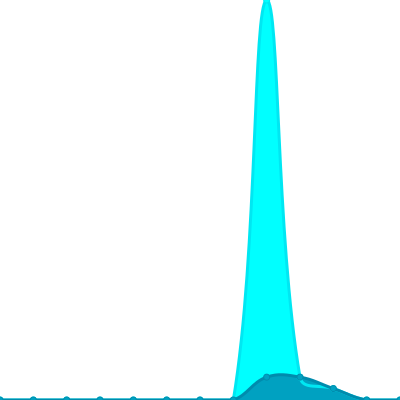
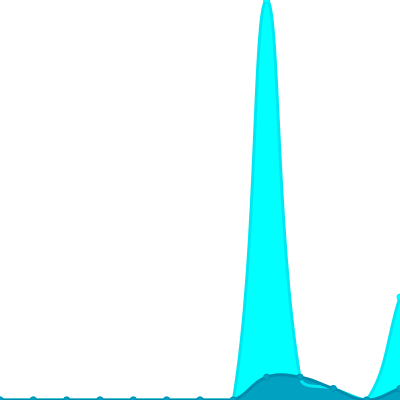
Update views

Changed region(s): [[0.87, 0.72, 1.0, 1.0]]

diff --git a/readme/507583424/year.md b/readme/507583424/year.md
@@ -23,10 +23,10 @@
 			<code>2022/10/1</code>
 		</td>
 		<td>
-			<code>0</code>
+			<code>1</code>
 		</td>
 		<td>
-			<code>0</code>
+			<code>9</code>
 		</td>
 	</tr>
 	<tr>
@@ -164,7 +164,7 @@
 </table>
 
 </details>
-<small><i>Last updated on 2022/10/14 12:33 PM UTC</i></small>
+<small><i>Last updated on 2022/10/14 6:21 PM UTC</i></small>
 
 ## ✂Copy and 📋 Paste
 ### SVG Badge

diff --git a/README.md b/README.md
@@ -53,7 +53,7 @@ The project created and maintained by [gayanvoice](https://github.com/gayanvoice
 	</tr>
 </table>
 
-<small><i>Last updated on 2022/10/14 12:33 PM UTC</i></small>
+<small><i>Last updated on 2022/10/14 6:21 PM UTC</i></small>
 
 ## ✂Copy and 📋 Paste
 ### Total Views Badge

diff --git a/readme/484063504/year.md b/readme/484063504/year.md
@@ -164,7 +164,7 @@
 </table>
 
 </details>
-<small><i>Last updated on 2022/10/14 12:33 PM UTC</i></small>
+<small><i>Last updated on 2022/10/14 6:21 PM UTC</i></small>
 
 ## ✂Copy and 📋 Paste
 ### SVG Badge
